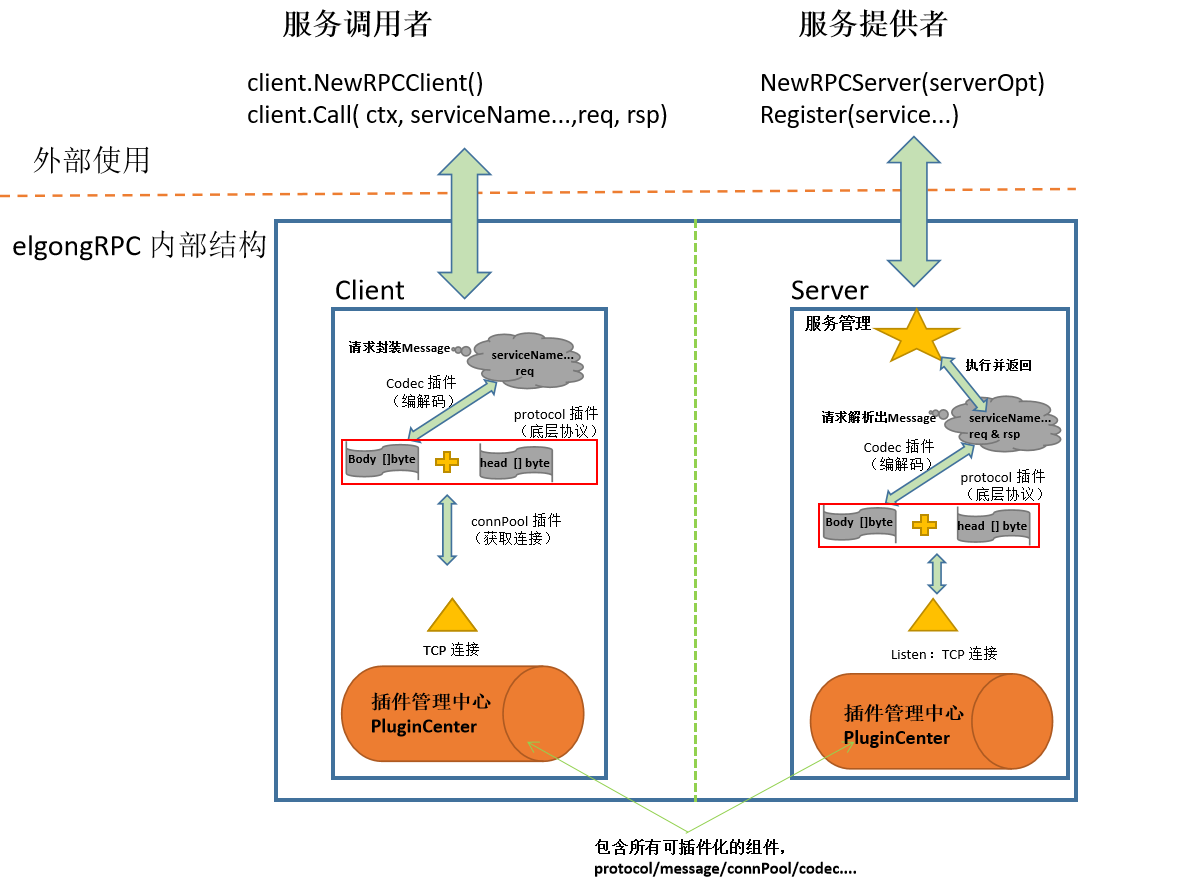
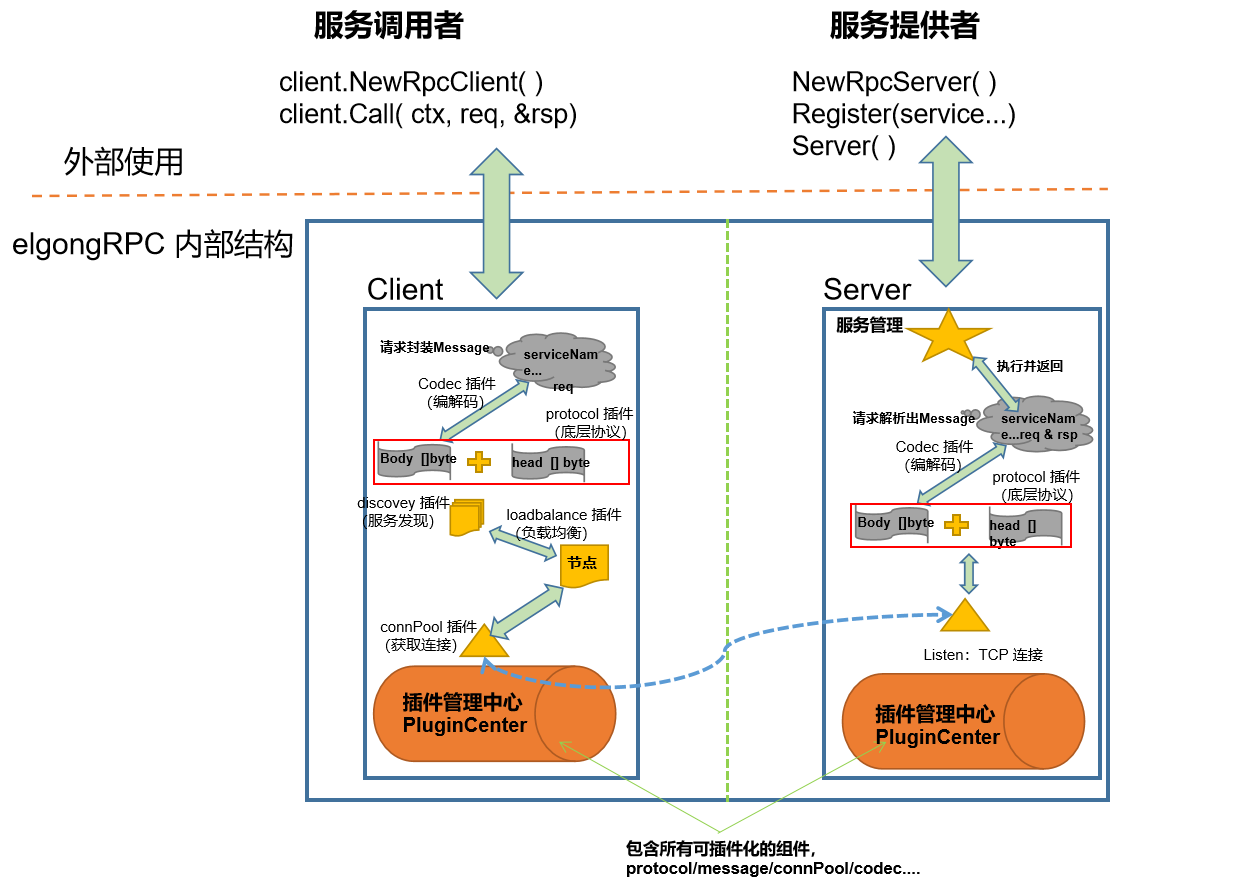
bk

diff --git a/README.md b/README.md
@@ -1,7 +1,7 @@
-# elgongRPC 框架实践
+# elgongRPC 微服务框架实践
 **项目简述**：尝试动手实现基于golang 的 rpc 微服务框架
 
-**项目起始于**：2020.7.8
+**项目起始于**：2020.6
 
 **目前状态**：更新中
 
@@ -16,17 +16,20 @@
 
 ## elgongRPC  V1.0 特点
 
-- **分层设计**: 尽可能的分层设计，每个层避免出现循环依赖，但可能出现单向的依赖
+- **分层设计**: 采用分层设计，层之间尽可能的独立，避免出现循环依赖，但可能出现单向的依赖
 
-  - **特殊情况**：比如 `protocol 层`依赖于` codec层`，但是最终调用使用的是`protocol层`对外提供接口， 用户感知不到。 
+  - **特殊情况**：比如 `protocol 层`依赖于` codec层`，但对外暴露的是`protocol层`对外提供接口， 用户感知不到 `codec层`；
 
 - **组件尽可能插件化**：由统一的插件管理中心来管理注册和使用
 
   - **实现思路**：同种类型插件实现类型共同的接口，把自己注册到插件管理中心的map容器中， 调用时使用接口来统一断言调用；
-  - **支持多种编解码方式**，可以通过实现 `codec`接口来增加自定义的编解码
-  - **支持自定义protocal协议设计**，可以通过实现 `protocol` 接口来增加
-  - **支持自定义连接池设计**，可以通过实现 `pool` 接口来实现增加
-  - **支持其他插件的自定义**
+  - **支持多种编解码方式**，可以通过实现 `codec`接口来增加自定义的编解码（目前已经支持msgpack 和 gob）；
+  - **支持自定义protocal传输协议**，可以通过实现 `protocol` 接口来增加自定义传输协议；
+  - **支持自定义连接池**，可以通过实现 `pool` 接口来实现增加自定义连接池；
+  - **支持自定义服务发现**， 目前服务发现插件是本地文件配置服务节点列表，如果扩展etcd等，只需要实现对应接口；
+  - **支持自定义负载均衡**，目前负载均衡插件是本地的均衡策略，支持实现对应接口后扩展其他均衡策略；
+
+- **支持简单的服务治理功能**
 
 - **连接池管理**： 连接池管理连接，缓解频繁建立和释放连接对服务器资源的浪费
 
@@ -50,7 +53,7 @@
 
 - 调用链设计（参考grpc）
 
-  服务注册与服务发现插件
+  服务注册与服务发现插件 对 `etcd` 的支持
 
 - 负载均衡插件（两次随机负载均衡+轮询 + 带权）
 
@@ -60,7 +63,7 @@
 
 ## elgongRPC V1.0 使用DEMO
 
-待补充。。
+`RPCClient.go ` 和 `RPCServer.go` 即demo，还未整理详细使用方式。
 
 
 

diff --git a/soa/README.md b/soa/README.md
@@ -1,0 +1,2 @@
+# soa包说明 
+> 服务治理
